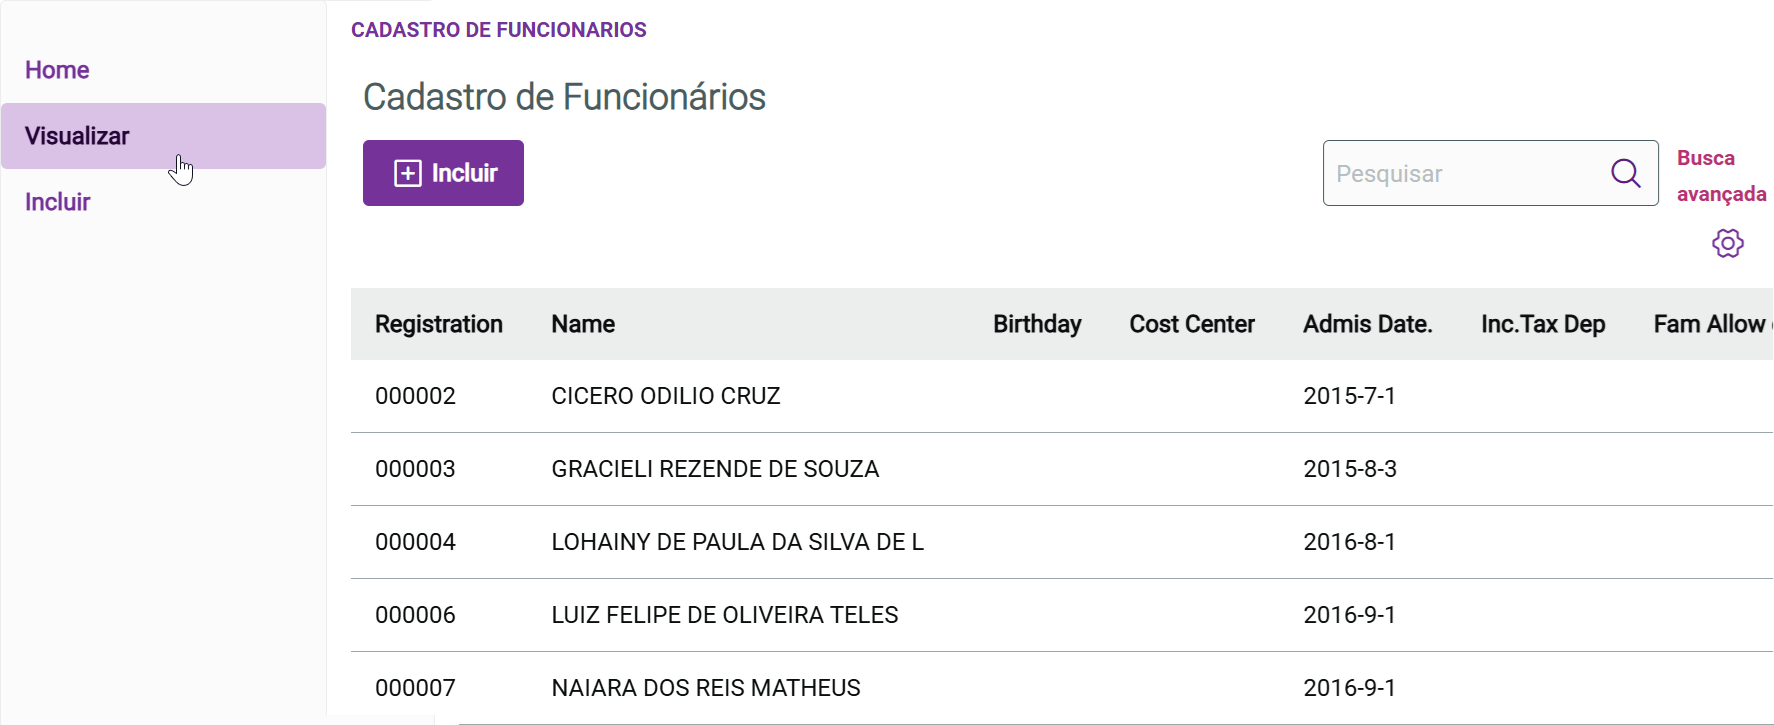
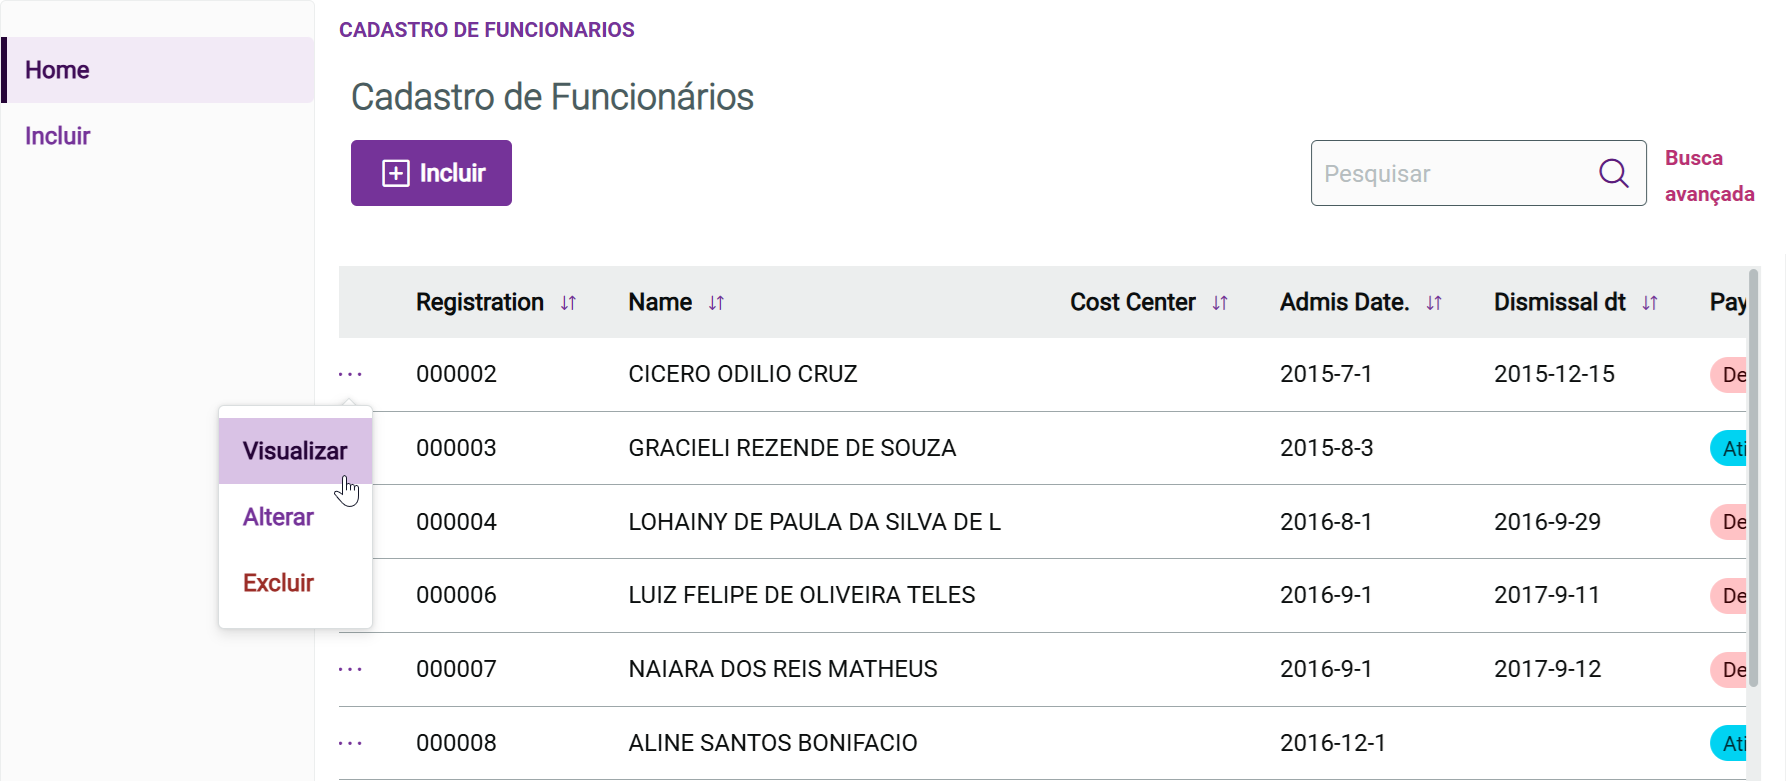
Atualização do projeto PO-UI (rotas, formatação e ordenação).

diff --git a/index.html b/index.html
@@ -46,7 +46,8 @@
 									Este projeto consiste na elaboração de uma interface web para a inclusão, 
 									alteração e visualização de funcionários na base de dados do sistema TOTVS 
 									Protheus, com o objetivo de treinamento e fixação de conhecimento de TypeScript 
-									(JavaScript ECMA6) no framework Angular + PO-UI (TOTVS).
+									(JavaScript ECMA6) no framework Angular + PO-UI (TOTVS).<br/>
+									Ele está em construção e foi atualizado em <b>09/10/2026</b>.
 								</p>
 								<a href="page/images/fulls/employees_poui.png" class="image fit thumb"><img src="page/images/thumbs/employees_poui.png" alt="" /></a>
 								<ul class="actions">
